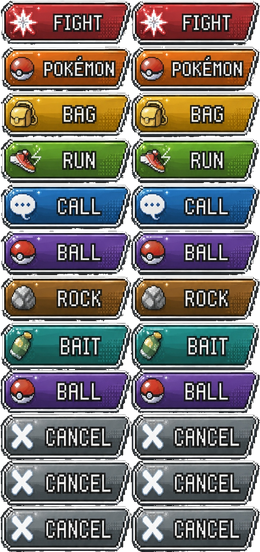
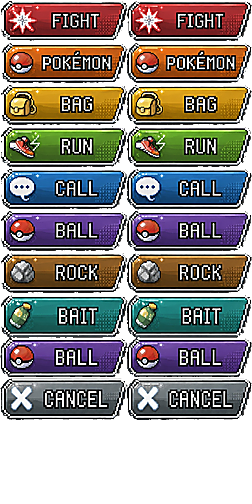
fix(battle): adjust enemy databox position and optimize button pixel sharpness

diff --git a/apps/web/src/battle/battle-renderer.ts b/apps/web/src/battle/battle-renderer.ts
@@ -35,7 +35,7 @@ export class BattleRenderer {
     this.drawEnemyBattler(ctx, state);
     this.drawPlayerBattler(ctx, state);
     this.drawBallThrow(ctx, state);
-    this.renderEnemyDatabox(ctx, 0, 41, state);
+    this.renderEnemyDatabox(ctx, 0, 11, state);
     this.renderPlayerDatabox(ctx, 252, 197, state);
     this.renderBottomPanel(ctx, state);
   }
@@ -148,24 +148,24 @@ export class BattleRenderer {
 
     // Name
     ctx.font = 'bold 16px "Power Clear", "VT323", monospace, sans-serif';
-    this.drawTextWithOutline(ctx, enemy.name, dx + 8, dy + 21, '#ffffff', '#000000', 3);
+    this.drawTextWithOutline(ctx, enemy.name, dx + 8, dy + 31, '#ffffff', '#000000', 3);
 
     // Gender symbol
     const genderSymbol = enemy.gender === 'male' ? '♂' : enemy.gender === 'female' ? '♀' : '';
     const genderColor = enemy.gender === 'male' ? '#3b82f6' : '#ef4444';
     if (genderSymbol) {
-      this.drawTextWithOutline(ctx, genderSymbol, dx + 126, dy + 21, genderColor, '#000000', 3);
+      this.drawTextWithOutline(ctx, genderSymbol, dx + 126, dy + 31, genderColor, '#000000', 3);
     }
 
     // Level
-    this.drawTextWithOutline(ctx, `Lv.${enemy.level}`, dx + 142, dy + 21, '#ffffff', '#000000', 3);
+    this.drawTextWithOutline(ctx, `Lv.${enemy.level}`, dx + 142, dy + 31, '#ffffff', '#000000', 3);
 
     // Type Badges
     if (enemy.types.length > 0) {
-      TypeBadgeRenderer.drawTypeIcon(ctx, enemy.types[0], 217, 43, 0.75);
+      TypeBadgeRenderer.drawTypeIcon(ctx, enemy.types[0], dx + 217, dy + 12, 0.75);
     }
     if (enemy.types.length > 1) {
-      TypeBadgeRenderer.drawTypeIcon(ctx, enemy.types[1], 217, 67, 0.75);
+      TypeBadgeRenderer.drawTypeIcon(ctx, enemy.types[1], dx + 217, dy + 36, 0.75);
     }
 
     // HP Bar
@@ -294,23 +294,23 @@ export class BattleRenderer {
       3
     );
 
-    // 4 Action Buttons from cursor_command.png
+    // 4 Action Buttons from cursor_command.png (126x42 per button, 1:1 pixel crispness)
     if (isLoaded(this.assets.cursorCommand)) {
       // FIGHT (Top-Left): Row 0
-      const fightSx = state.hoveredCommandIdx === 0 ? 0 : 130;
-      ctx.drawImage(this.assets.cursorCommand, fightSx, 0, 130, 46, 252, 296, 126, 42);
+      const fightSx = state.hoveredCommandIdx === 0 ? 0 : 126;
+      ctx.drawImage(this.assets.cursorCommand, fightSx, 0, 126, 42, 252, 296, 126, 42);
 
-      // BAG (Top-Right): Row 2 (y=92)
-      const bagSx = state.hoveredCommandIdx === 1 ? 0 : 130;
-      ctx.drawImage(this.assets.cursorCommand, bagSx, 92, 130, 46, 381, 296, 126, 42);
+      // BAG (Top-Right): Row 2 (y=84)
+      const bagSx = state.hoveredCommandIdx === 1 ? 0 : 126;
+      ctx.drawImage(this.assets.cursorCommand, bagSx, 84, 126, 42, 381, 296, 126, 42);
 
-      // POKÉMON (Bottom-Left): Row 1 (y=46)
-      const pokeSx = state.hoveredCommandIdx === 2 ? 0 : 130;
-      ctx.drawImage(this.assets.cursorCommand, pokeSx, 46, 130, 46, 252, 339, 126, 42);
+      // POKÉMON (Bottom-Left): Row 1 (y=42)
+      const pokeSx = state.hoveredCommandIdx === 2 ? 0 : 126;
+      ctx.drawImage(this.assets.cursorCommand, pokeSx, 42, 126, 42, 252, 339, 126, 42);
 
-      // RUN (Bottom-Right): Row 3 (y=138)
-      const runSx = state.hoveredCommandIdx === 3 ? 0 : 130;
-      ctx.drawImage(this.assets.cursorCommand, runSx, 138, 130, 46, 381, 339, 126, 42);
+      // RUN (Bottom-Right): Row 3 (y=126)
+      const runSx = state.hoveredCommandIdx === 3 ? 0 : 126;
+      ctx.drawImage(this.assets.cursorCommand, runSx, 126, 126, 42, 381, 339, 126, 42);
     } else {
       // Fallback pill buttons
       this.drawPillButton(ctx, 252, 296, 126, 42, '#dc2626', state.hoveredCommandIdx === 0);
